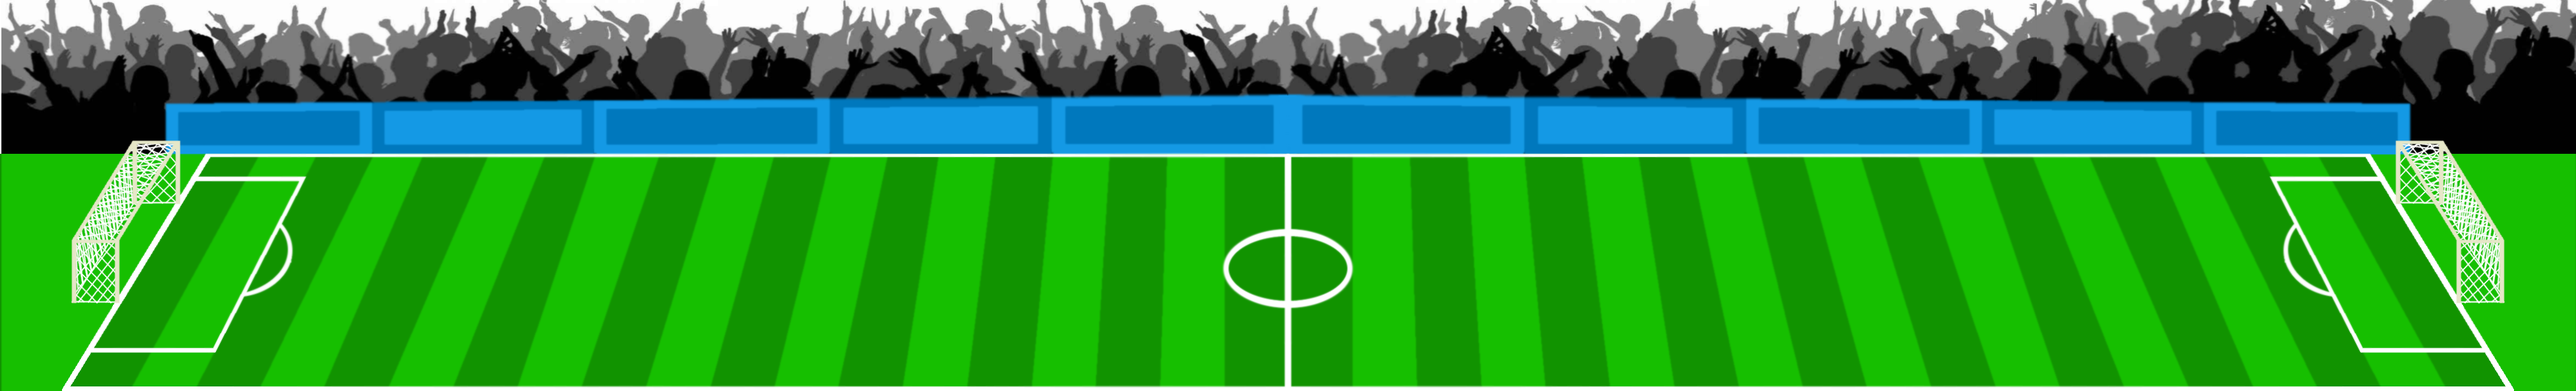
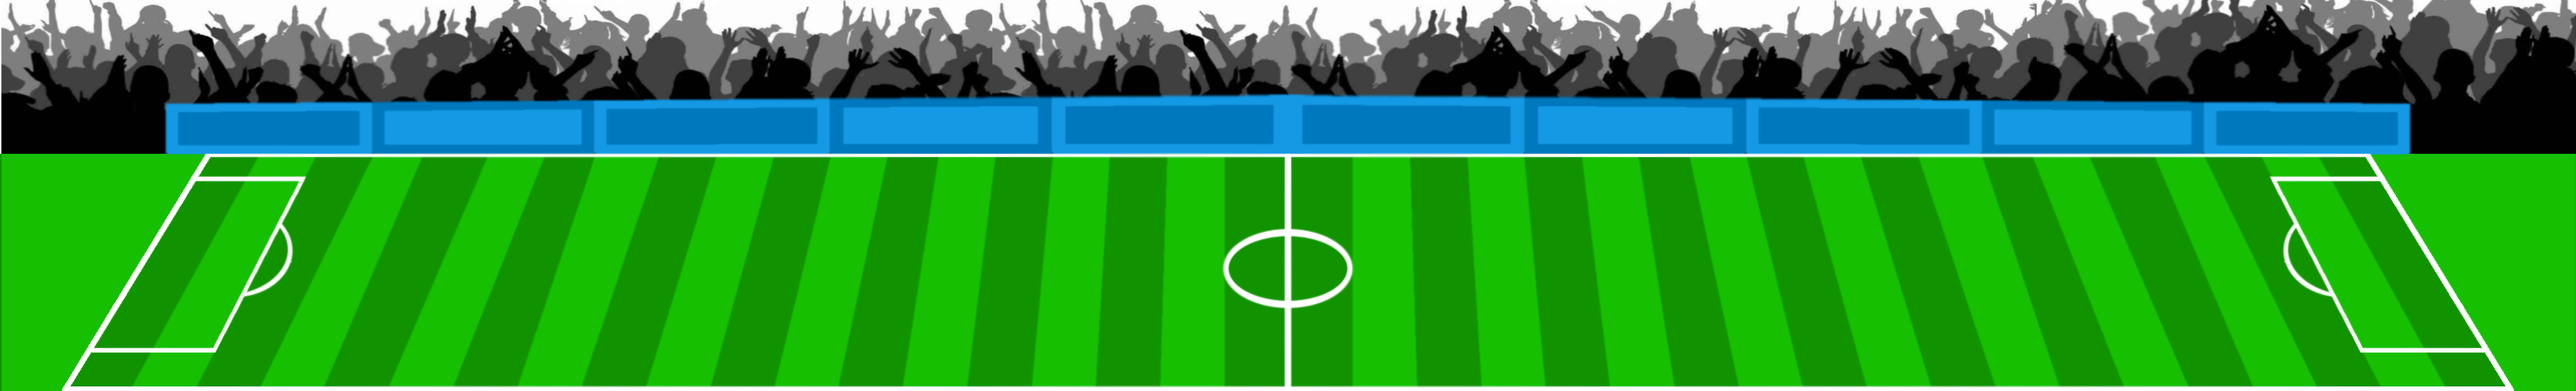
modified:   playgame/static/js/Menu.js 	modified:   playgame/static/js/PlayState.js 	modified:   playgame/static/js/Preload.js 	new file:   playgame/static/playgame/goals.png 	modified:   playgame/static/playgame/playfield.png

Changed region(s): [[0.904, 0.36, 0.9975, 0.78], [0.0, 0.36, 0.0935, 0.78]]

diff --git a/playgame/static/js/PlayState.js b/playgame/static/js/PlayState.js
@@ -8,8 +8,8 @@ var loadPlayState = function (){
     var numbuttons, teachingButton;
     var delbutton, subbutton, button;
     var text = new Text(), winStateChecker;
-    var player, opponent, bg;
-    var anim, walk, playerDirection,gameplaySpeed;
+    var player, opponent, bg, goal1, goal2;
+    var anim, walk,opponentWalk, playerDirection,gameplaySpeed,ballRotationSpeed;
     var resetPlayerDirection,winCondition,problemLevel;
 
 soccer.PlayState = function() {};
@@ -23,6 +23,7 @@ soccer.PlayState.prototype = {
 		playerDirection = 0;
         winCondition = 0;
 		gameplaySpeed = 6;
+        ballRotationSpeed = 7;
 
         //set problem level here, 1, 2 or 3
         problemLevel = 1;
@@ -47,7 +48,7 @@ soccer.PlayState.prototype = {
 		
 		opponent.anchor.setTo(.5,.5);
 		opponent.scale.x *= -1;
-		var opponentWalk = opponent.animations.add('opponentWalk');
+		opponentWalk = opponent.animations.add('opponentWalk');
 	
 
         //add the number input buttons to the screen
@@ -63,6 +64,7 @@ soccer.PlayState.prototype = {
         zerobutton = new LabelButton(soccer.game,570,570,'numbutton','0',this.actionOnClicked,this,0,0,0,0);
         delbutton = new LabelButton(soccer.game,630,570,'numbutton','Del',this.actionOnClicked,this,0,0,0,0);
         subbutton = new LabelButton(soccer.game,400,400,'ball','SUBMIT',this.actionOnClicked,this,0,0,0,0);
+
         teachingButton = new LabelButton(soccer.game,0,300,'numbutton','TEACH ME',this.actionOnClicked,this,0,0,0,0);
 
         //The submit button
@@ -116,77 +118,107 @@ soccer.PlayState.prototype = {
             text = operand1 + ' - ' + operand2 + ' = ';
 
         //output the problem
-        problem = this.game.add.text(550, 520, text, {font: '32px Arial', fill: '#000'});
+        problem = this.game.add.text(400, subbutton.y - 80, text, {font: '32px Arial', fill: '#000'});
         //set the anchor to the top right corner so it is always placed next to our answer.
         problem.anchor.set(1,0);
 
         //this is helper text that lets me see whether we are winning or losing
-        winStateChecker = this.game.add.text(470,460,'No Guesses Made',{font: '32px Arial', fill: '#000'});
+        //winStateChecker = this.game.add.text(470,460,'No Guesses Made',{font: '32px Arial', fill: '#000'});
 
 
         //create a text field for answer validation
-        validate = this.game.add.text(400,560,answer, {font: '32px Arial', fill: '#000'});
+        validate = this.game.add.text(400,500,answer, {font: '32px Arial', fill: '#000'});
 
         //output the students answer
         answerOutput = this.game.add.text(problem.x + 5 /*position to the right of the problem text*/
             ,problem.y,answer,{font: '32px Arial', fill: '#000'});
+
+        goal1 = new LabelButton(soccer.game,2200,350,'goal',"",this.actionOnClicked,this,0,0,0,0);
+        goal2 = new LabelButton(soccer.game,-1400,350,'goal',"",this.actionOnClicked,this,0,0,0,0);
+        goal1.anchor.set(0.5);
+        goal2.anchor.set(0.5);
+
+        goal2.scale.x *= -1;
+
+
+
     },
 
     
     update: function () {
 
         //Make the characters "run"
-		if(walk.isPlaying && playerDirection === 0){
-				bg.x -= gameplaySpeed;
-				subbutton.x -= gameplaySpeed;
-        }
-		else if(walk.isPlaying && playerDirection === 1){ //when answer wrong
-            bg.x += gameplaySpeed;
-            subbutton.x += gameplaySpeed;
-        }
-		else if(walk.isPlaying && playerDirection === 1){
-			bg.x += gameplaySpeed;
-			subbutton.x += gameplaySpeed;
-        }
+        if(winCondition <= 9 && winCondition >= -9) {
+            if (walk.isPlaying && playerDirection === 0) {
+                bg.x -= gameplaySpeed;
+                subbutton.x -= gameplaySpeed;
+                goal1.x -= gameplaySpeed;
+                goal2.x -= gameplaySpeed;
+            }
+            else if (walk.isPlaying && playerDirection === 1) { //when answer wrong
+                bg.x += gameplaySpeed;
+                subbutton.x += gameplaySpeed;
+                goal1.x += gameplaySpeed;
+                goal2.x += gameplaySpeed;
+            }
+            else if (walk.isPlaying && playerDirection === 1) {
+                bg.x += gameplaySpeed;
+                subbutton.x += gameplaySpeed;
+                goal1.x += gameplaySpeed;
+                goal2.x += gameplaySpeed;
+            }
 
-        //Reset players to face the ball
-		//if player answered wrong
-		if(!walk.isPlaying & playerDirection ===1 && resetPlayerDirection === 1){
-			player.scale.x *= -1;
-			resetPlayerDirection = 0;
-			playerDirection = 0;
-		 	subbutton.x -= gameplaySpeed;
-		}
-		//if player answered right
-		else if (!walk.isPlaying && resetPlayerDirection === 1){
-			opponent.scale.x *= -1;
-			resetPlayerDirection = 0;
-			subbutton.x += gameplaySpeed;
-		}
-
-		
-
-
-        //BALL animations
-        //calc distance between both players and roll the ball until it is inbetween both
-        if(winCondition < 9 || winCondition > -9) {
-            var distance = Math.abs(Math.abs(player.x) - Math.abs(opponent.x)) / 2;
-            if (!walk.isPlaying && (player.x + distance) > subbutton.x) {
-                subbutton.x +=  gameplaySpeed;
+            //Reset players to face the ball
+            //if player answered wrong
+            if (!walk.isPlaying & playerDirection === 1 && resetPlayerDirection === 1) {
+                player.scale.x *= -1;
+                resetPlayerDirection = 0;
+                playerDirection = 0;
+                subbutton.x -= gameplaySpeed;
+            }
+            //if player answered right
+            else if (!walk.isPlaying && resetPlayerDirection === 1) {
+                opponent.scale.x *= -1;
+                resetPlayerDirection = 0;
+                subbutton.x += gameplaySpeed;
 
             }
+
+
+            //BALL animations
+            //calc distance between both players and roll the ball until it is inbetween both
+            var distance = Math.abs(Math.abs(player.x) - Math.abs(opponent.x)) / 2;
+            if (!walk.isPlaying && (player.x + distance) > subbutton.x) {
+                subbutton.x += gameplaySpeed;
+                subbutton.angle += ballRotationSpeed;
+            }
             else if (!walk.isPlaying && (player.x + distance + 1) < subbutton.x) {
-                subbutton.x -=  gameplaySpeed;
+                subbutton.x -= gameplaySpeed;
+                subbutton.angle -= ballRotationSpeed;
             }
         }
         else{
             //player has won
-            if(winCondition >= 9) {
-                subbutton.x +=  gameplaySpeed;
+            if(winCondition > 9) {
+                if ( walk.isPlaying){
+                    player.x += gameplaySpeed;
+                    opponent.x -= gameplaySpeed;
+                }
+                else if (subbutton.x < 690) {
+                    subbutton.x += gameplaySpeed;
+                    subbutton.angle -= ballRotationSpeed;
+                }
             }
             //opponent has won
-            else{
-                subbutton.x -=  gameplaySpeed;
+            else {
+                if ( opponentWalk.isPlaying){
+                    opponent.x -= gameplaySpeed;
+                    player.x += gameplaySpeed;
+                }
+                else if (subbutton.x > 90) {
+                    subbutton.x -= gameplaySpeed;
+                    subbutton.angle += ballRotationSpeed;
+                }
             }
         }
     },
@@ -197,6 +229,10 @@ soccer.PlayState.prototype = {
     teachingScreen: function() {
         validate.setText('Switching to Teaching');
         this.game.state.start('Teaching');
+    },
+
+    restartPlayState: function(){
+        this.game.state.start('PlayState');
     },
 
     //the primary handler for button clicks
@@ -250,13 +286,15 @@ soccer.PlayState.prototype = {
     checkAnswer: function() {
 
         //ADDITION
-        if(subtractionMode === 0) {
+        if(subtractionMode === 0 && winCondition < 10 && winCondition > -10) {
             if (operand1 + operand2 == parseInt(answer)) {
                 validate.setText(operand1 + " + " + operand2 + " = " + parseInt(answer) + " is right!");
 
                 //check to see if game has been won
-                if(winCondition === 9){
+                if(winCondition >= 9){
+                    winCondition++;
                     player.animations.play('walk', 60, false);
+                    opponent.animations.play('opponentWalk', 60, false);
                     this.playerHasWon();
                 }
                 else { //player correct walk forward
@@ -271,18 +309,26 @@ soccer.PlayState.prototype = {
 
             else {  //player wrong walk back
                 validate.setText(operand1 + " + " + operand2 + " = " + parseInt(answer) + " is wrong!");
-                player.scale.x *= -1;
-                player.animations.play('walk', 60, false);
-                opponent.animations.play('opponentWalk', 60, false);
-                playerDirection = 1;
-                resetPlayerDirection = 1;
-                winCondition -= 1;
+                if(winCondition <= -9){
+                    winCondition--;
+                    opponent.animations.play('opponentWalk', 60, false);
+                    player.animations.play('walk', 60, false);
+                    this.opponentHasWon();
+                }
+                else {
+                    player.scale.x *= -1;
+                    player.animations.play('walk', 60, false);
+                    opponent.animations.play('opponentWalk', 60, false);
+                    playerDirection = 1;
+                    resetPlayerDirection = 1;
+                    winCondition -= 1;
+                }
             }
 
             //output a new problem to the user
             answer = "";
             answerOutput.setText(answer);
-            winStateChecker.setText('winCondition = ' + winCondition);
+            //winStateChecker.setText('winCondition = ' + winCondition);
 
             array = this.randomProblemGenerator(problemLevel);
             operand1 = Math.max(array[0],array[1]);
@@ -290,7 +336,7 @@ soccer.PlayState.prototype = {
             problem.setText(operand1 + ' + ' + operand2 + ' = ');
         }
             //SUBTRACTION
-        else if (subtractionMode === 1){
+        else if (subtractionMode === 1 && winCondition < 10 && winCondition > -10){
             if (operand1 - operand2 == parseInt(answer)) {
                 validate.setText(operand1 + " - " + operand2 + " = " + parseInt(answer) + " is right!");
                 resetPlayerDirection = 1;
@@ -298,6 +344,7 @@ soccer.PlayState.prototype = {
                 opponent.scale.x *= -1;
                 opponent.animations.play('opponentWalk', 60, false);
                 winCondition += 1;
+                this.playerHasWon();
             }
 
 
@@ -309,6 +356,7 @@ soccer.PlayState.prototype = {
                 playerDirection = 1;
                 resetPlayerDirection = 1;
                 winCondition -= 1;
+                this.opponentHasWon();
             }
 
             //output a new problem to the user
@@ -323,7 +371,22 @@ soccer.PlayState.prototype = {
     },
 
     playerHasWon: function (){
-        //called when the player wins the game
+        var restart = new LabelButton(soccer.game,400,250,'numbutton','',this.actionOnClicked,this,0,0,0,0);
+        restart.onInputUp.add(this.restartPlayState.bind(this));
+        restart.anchor.set(0.5);
+        restart.scale.x = 6;
+        var playAgainText = this.game.add.text(restart.x,restart.y, 'You won! Play again?', {font: '32px Arial', fill: '#000'});
+        playAgainText.anchor.set(0.5);
+
+    },
+
+    opponentHasWon: function(){
+        var restart = new LabelButton(soccer.game,400,250,'numbutton','',this.actionOnClicked,this,0,0,0,0);
+        restart.onInputUp.add(this.restartPlayState.bind(this));
+        restart.anchor.set(0.5);
+        restart.scale.x = 6;
+        var playAgainText = this.game.add.text(restart.x,restart.y, 'You lost! Play again?', {font: '32px Arial', fill: '#000'});
+        playAgainText.anchor.set(0.5);
     },
 
 

diff --git a/playgame/static/js/Menu.js b/playgame/static/js/Menu.js
@@ -1,7 +1,7 @@
 var soccer = soccer || {};
 
 soccer.Menu = function() {};
-
+var newButton;
 //prototype the Menu state
 soccer.Menu.prototype = {
     create: function () {
@@ -16,7 +16,7 @@ soccer.Menu.prototype = {
         });
 
         //button to move us to the Play State
-        var newButton = this.game.add.button(400, 300, 'ball', this.clicked, this);
+        newButton = this.game.add.button(400, 300, 'ball', this.clicked, this);
 
         //set the buttons anchor to the center of the screen
         newButton.anchor.set(0.5);
@@ -26,7 +26,7 @@ soccer.Menu.prototype = {
 
     //onUpdate, not used
     update: function () {
-
+        newButton.angle += 1;
     },
 
     //when the button is clicked, move to the Play State

diff --git a/playgame/static/js/Preload.js b/playgame/static/js/Preload.js
@@ -14,6 +14,7 @@ soccer.Preload.prototype = {
         this.load.spritesheet('opponent','../static/playgame/opponent-walk.png',105,170,27);
         this.load.image('numbutton','../static/playgame/orangebutton.png');
         this.load.image('playfield','../static/playgame/playfield.png');
+        this.load.image('goal','../static/playgame/goals.png');
     },
 
     //immediately when preload is done
